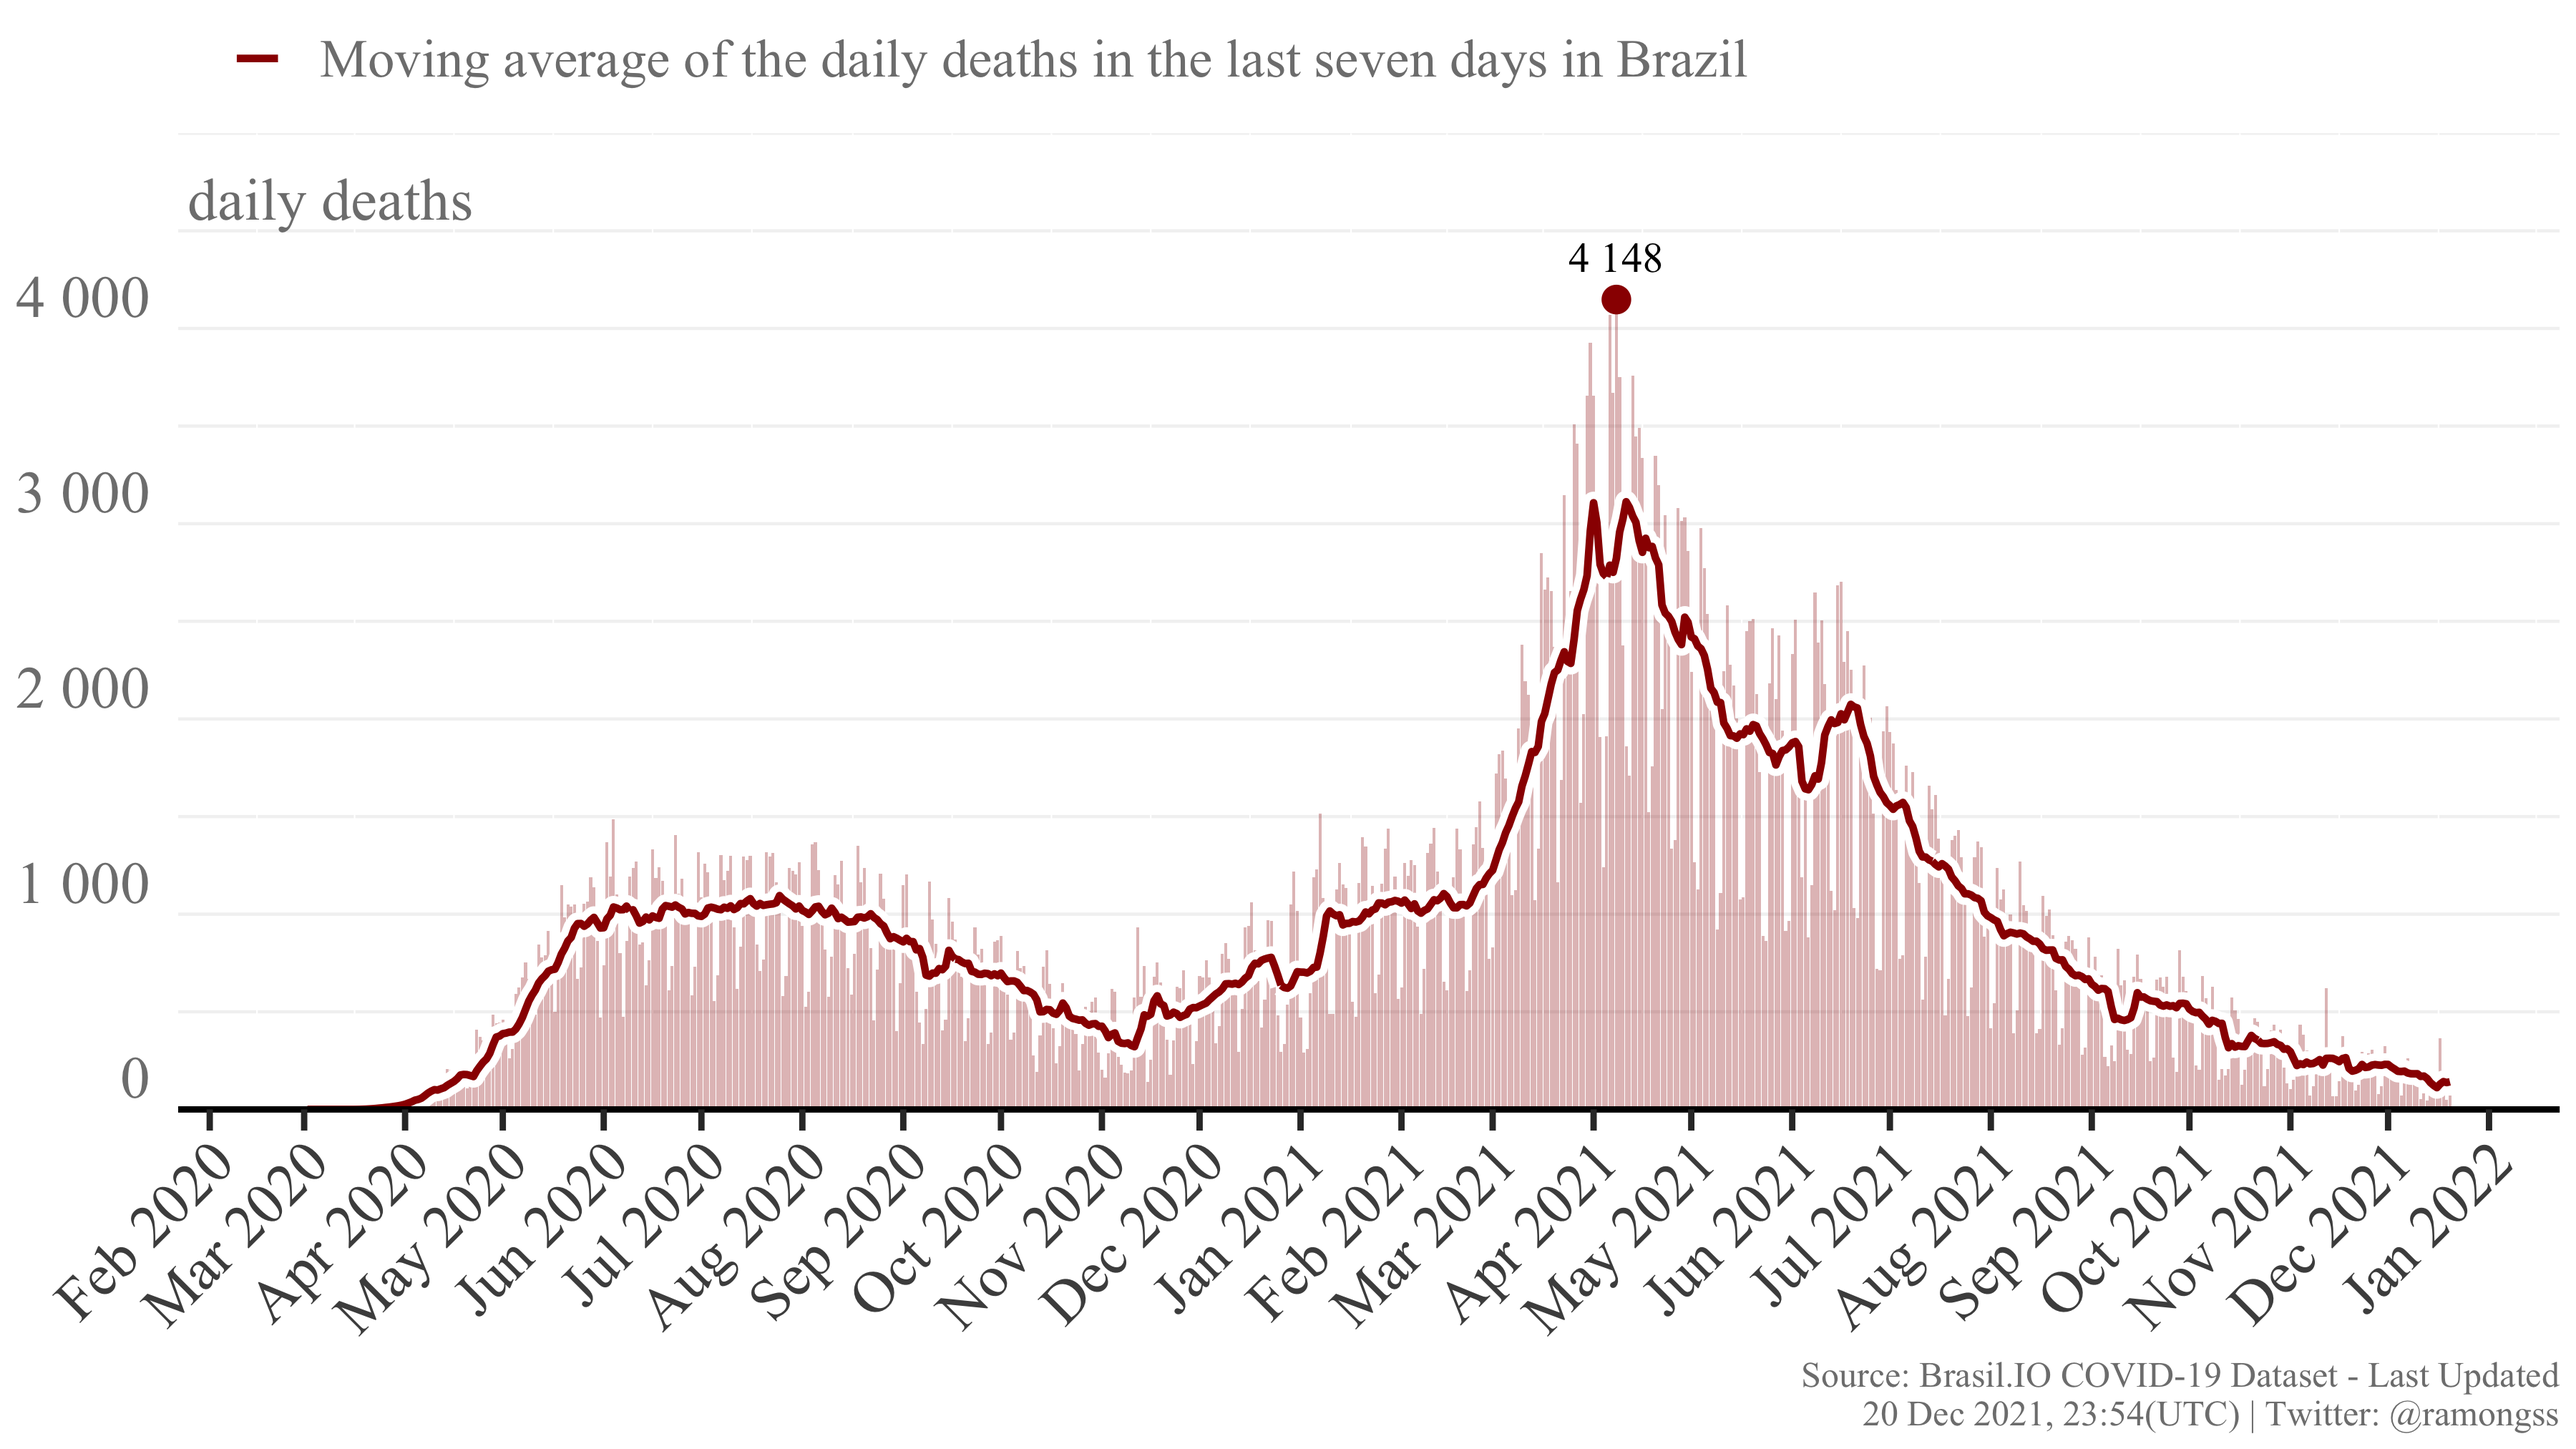
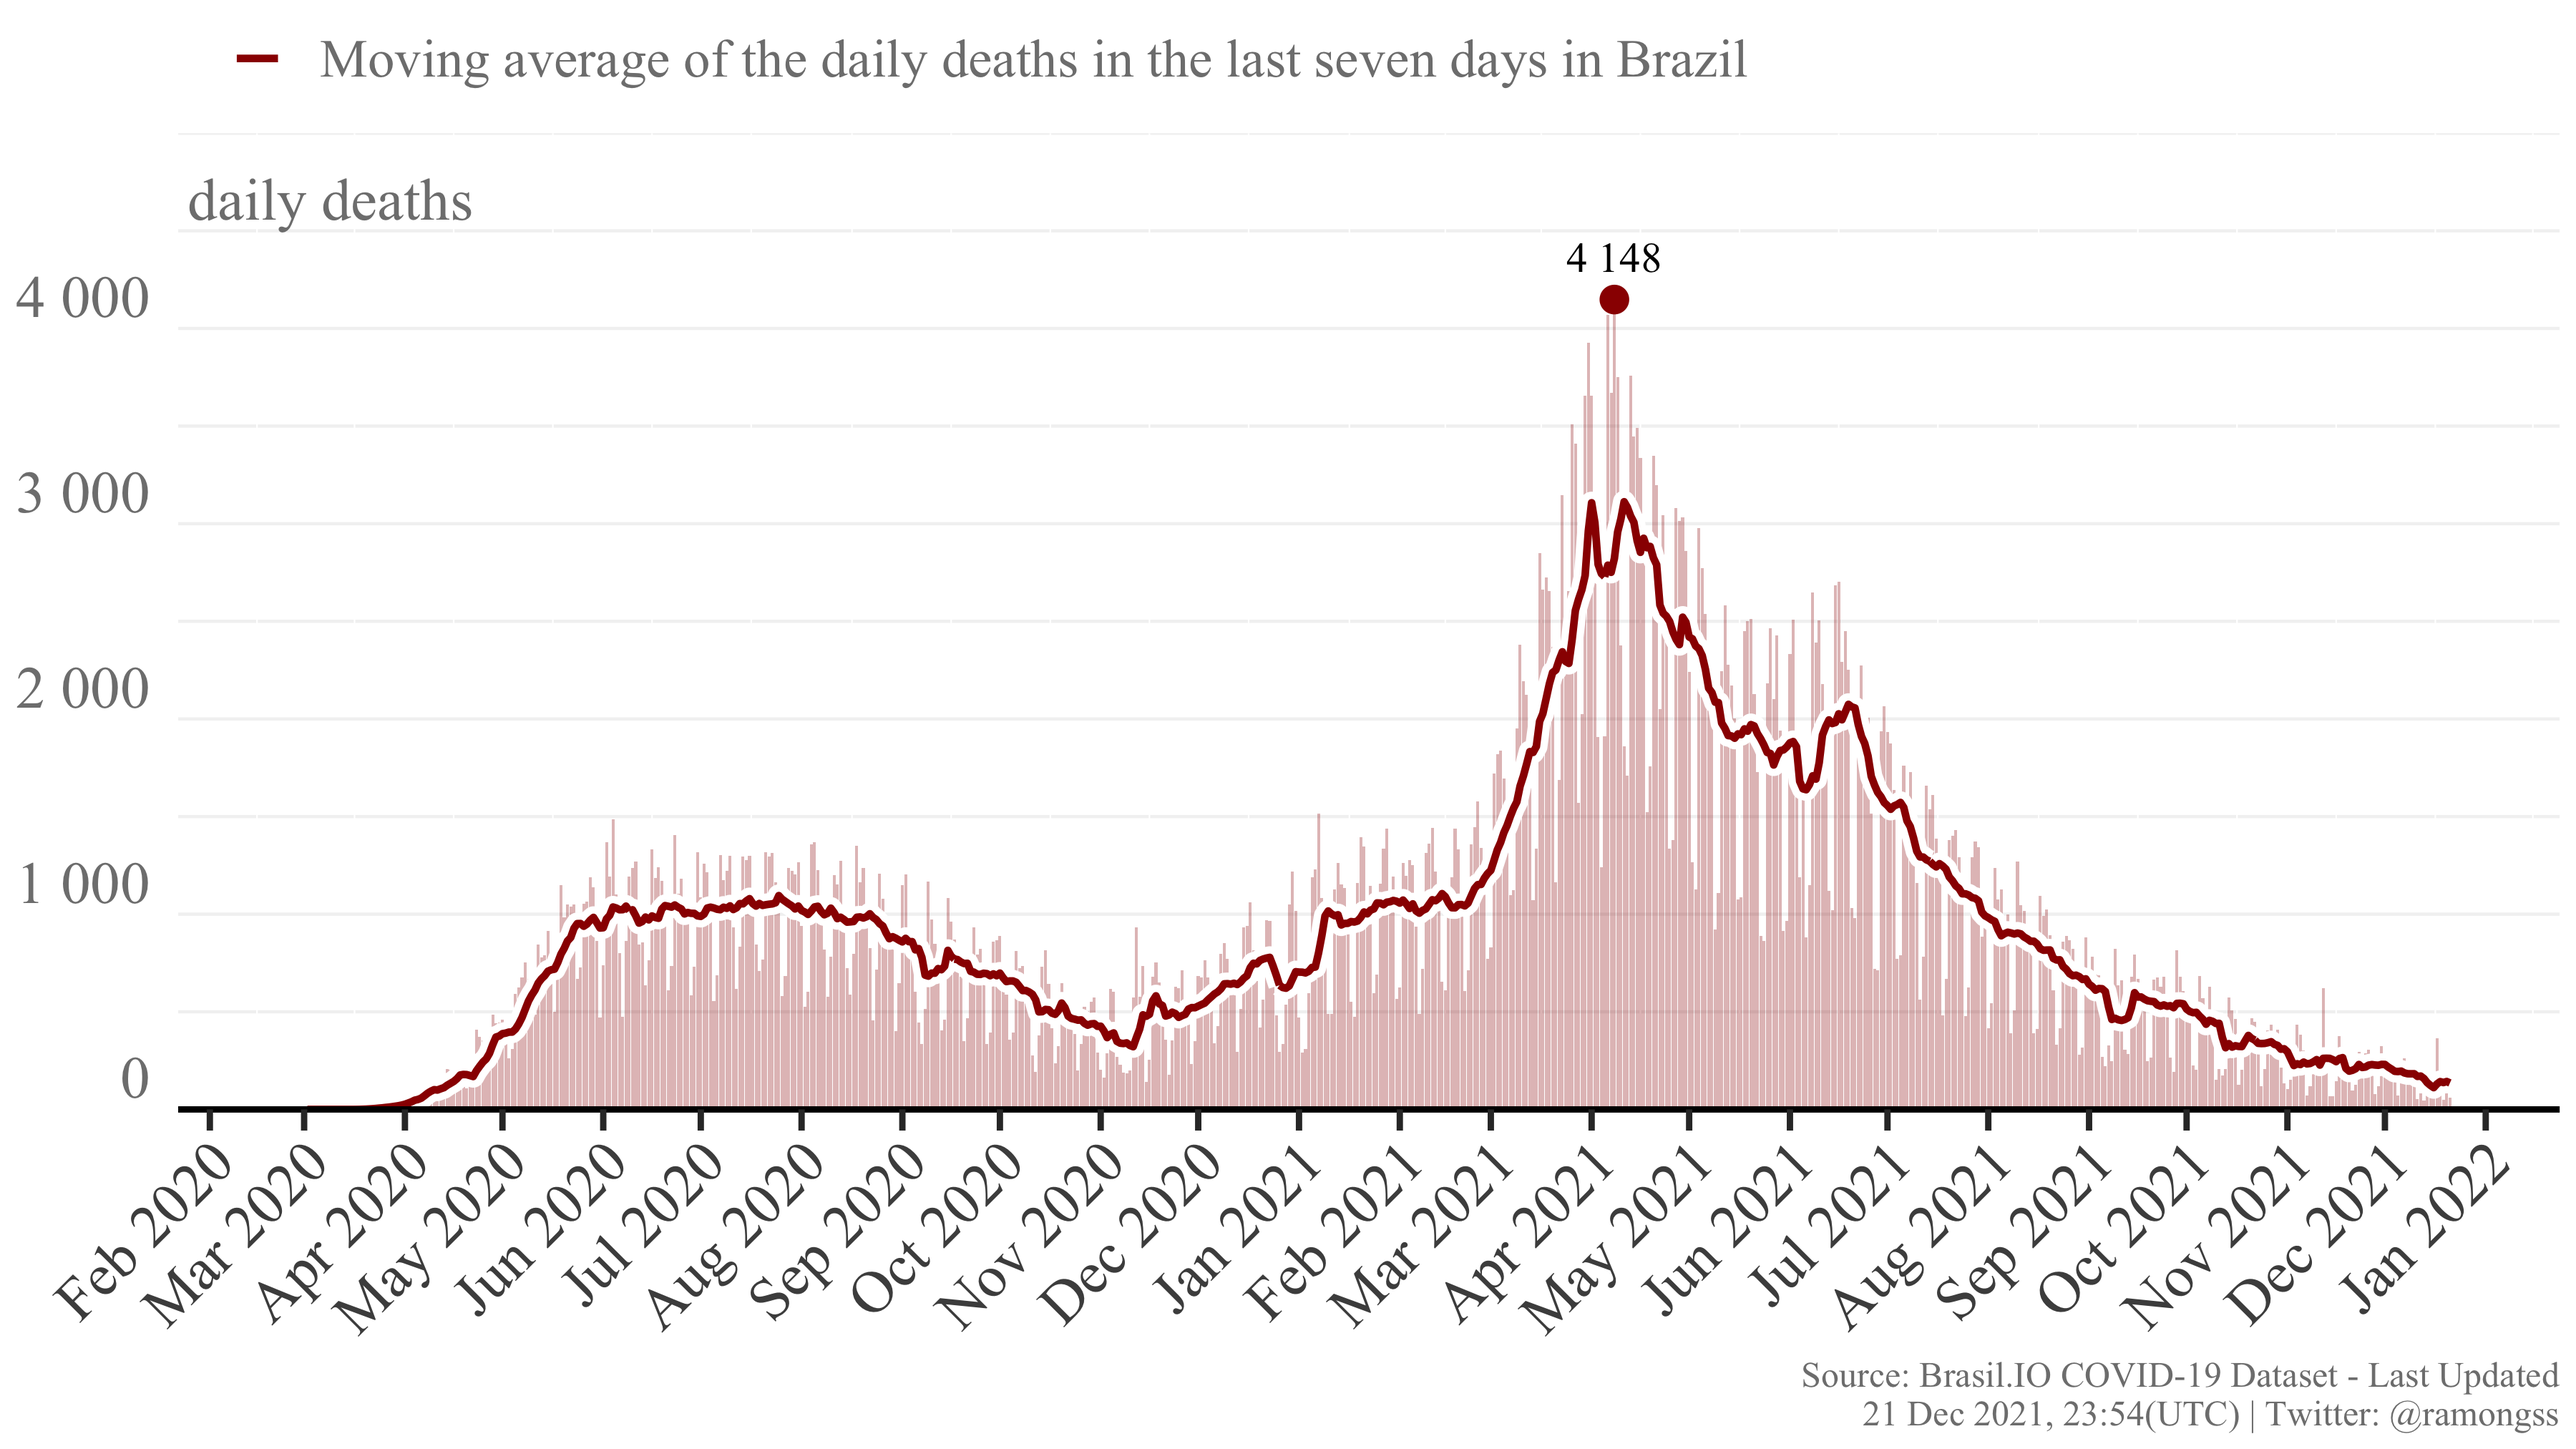
Re-build README.Rmd

diff --git a/README.md b/README.md
@@ -27,8 +27,8 @@ download_brasilio_table <- function(dataset = "covid19", table_name){
 
 ## COVID-19 Confirmed cases
 
-Currently, Brazil has a total of **22,220,001** confirmed cases at **20
-Dec, 2021**, with **2,581** new confirmed cases. The daily maximum
+Currently, Brazil has a total of **22,223,849** confirmed cases at **21
+Dec, 2021**, with **3,640** new confirmed cases. The daily maximum
 incidence was **124,878** confirmed cases at **18 Sep, 2021**. Here
 follows the Figure showing the confirmed case incidence as the bars, and
 the line as the moving average of the last 7 days.
@@ -37,8 +37,8 @@ the line as the moving average of the last 7 days.
 
 ## COVID-19 Deaths
 
-Currently, Brazil has a total of **618,133** deaths at **20 Dec, 2021**,
-with **73** new deaths. The daily maximum deaths incidence was **4,148**
+Currently, Brazil has a total of **618,203** deaths at **21 Dec, 2021**,
+with **61** new deaths. The daily maximum deaths incidence was **4,148**
 deaths at **08 Apr, 2021**. Here follows the Figure showing the deaths
 incidence as the bars, and the line as the moving average of the last 7
 days.
@@ -49,4 +49,4 @@ days.
 
 This page is daily updated automatically using Github Actions.
 
-*Last update: 20 Dec 2021, 23:54 (UTC).*
+*Last update: 21 Dec 2021, 23:54 (UTC).*
